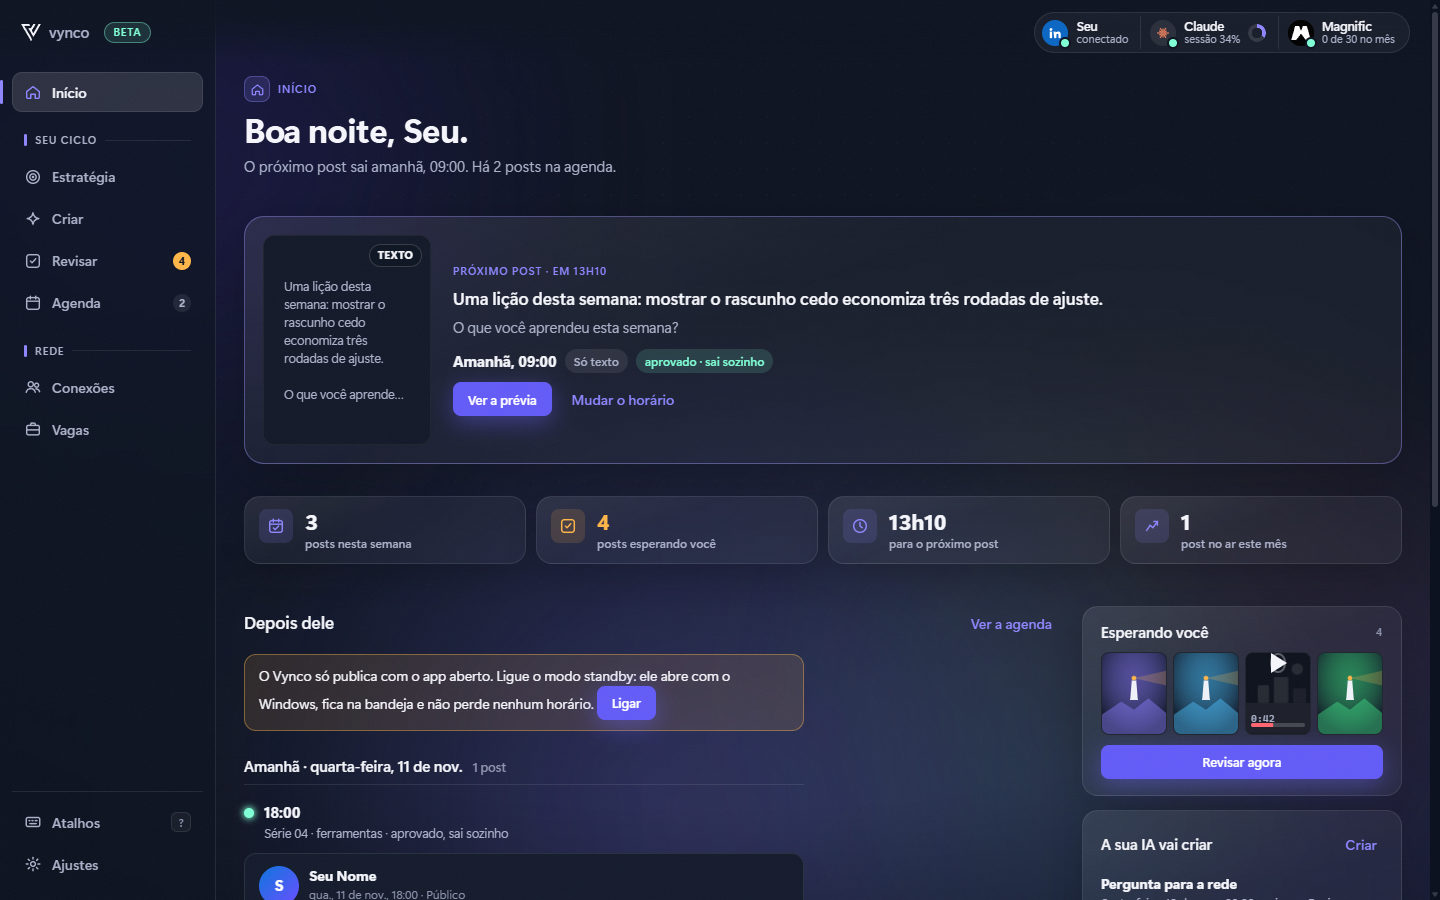
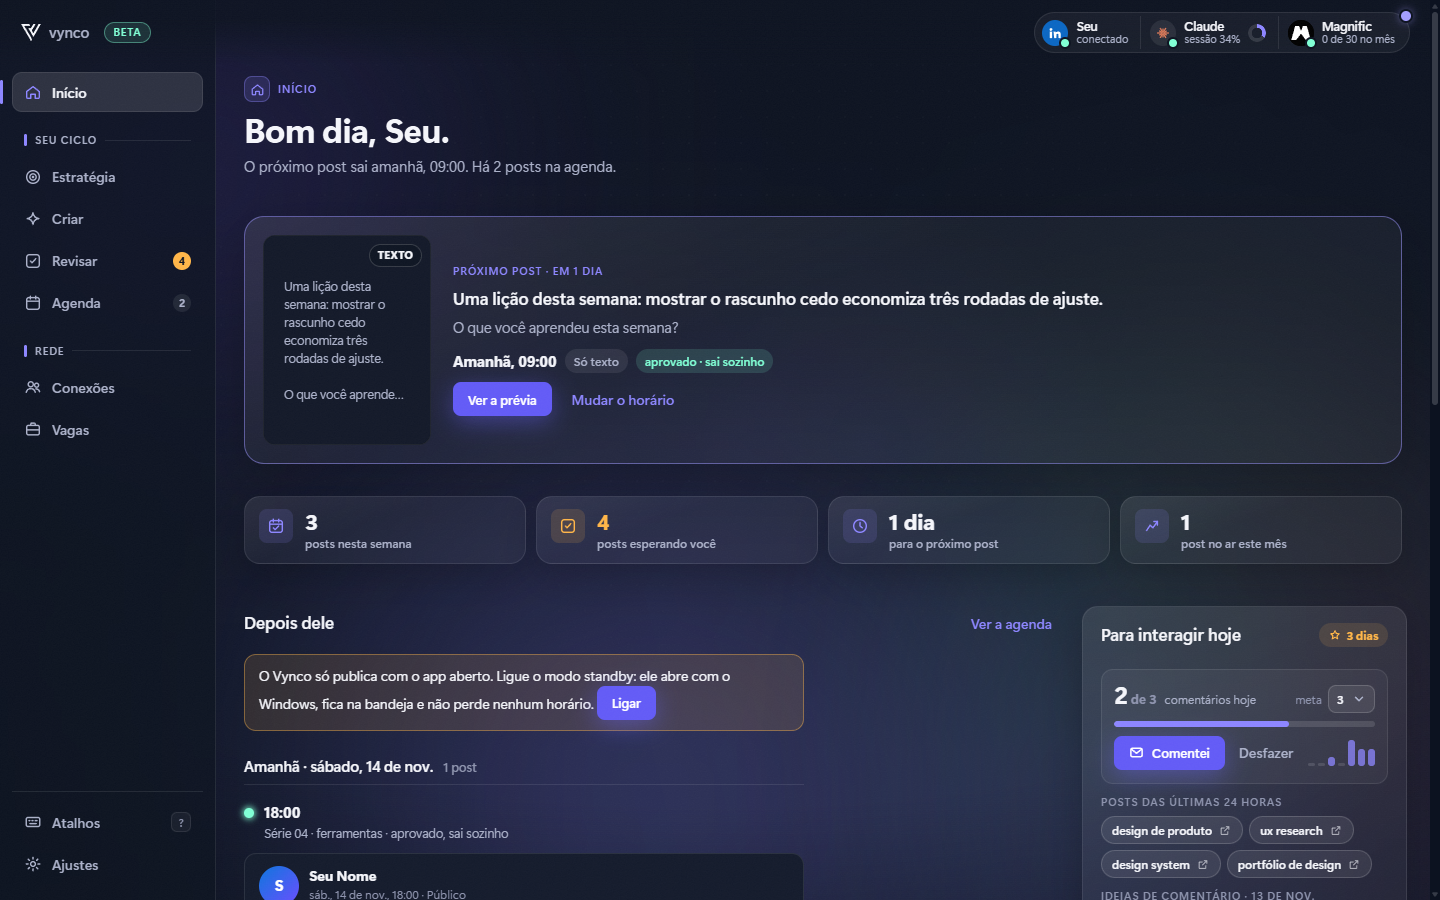
Vynco 0.18.1 beta: README, capturas e versão

diff --git a/README.md b/README.md
@@ -3,7 +3,7 @@
   <img src="app/public/marca/vynco-logo-lockup-escuro.svg" alt="Vynco" width="320">
 </picture>
 
-![Beta](https://img.shields.io/badge/status-beta%20test-7FFFD4?style=flat-square&labelColor=0C1220) ![Versão](https://img.shields.io/badge/vers%C3%A3o-0.18.0%20beta-6C63FF?style=flat-square&labelColor=0C1220) ![Windows](https://img.shields.io/badge/Windows-10%20e%2011-F4F5FA?style=flat-square&labelColor=0C1220)
+![Beta](https://img.shields.io/badge/status-beta%20test-7FFFD4?style=flat-square&labelColor=0C1220) ![Versão](https://img.shields.io/badge/vers%C3%A3o-0.18.1%20beta-6C63FF?style=flat-square&labelColor=0C1220) ![Windows](https://img.shields.io/badge/Windows-10%20e%2011-F4F5FA?style=flat-square&labelColor=0C1220)
 
 **Sua carreira em outro nível.** Seus posts no ar, do seu jeito. Nada sai sem você.
 
@@ -25,13 +25,26 @@ O Vynco é um motor de conteúdo para LinkedIn, para qualquer profissão:
 | **Criar e modo automático** | **Estratégia** |
 | ![Criar: modo automático com o plano da semana e a folga das IAs](docs/img/vynco-criar.png) | ![Estratégia em uma frase](docs/img/vynco-estrategia.png) |
 | **Conexões** | **Vagas** |
-| ![Conexões: tipos de pessoa, convite no seu tom e o que seguir](docs/img/vynco-rede.png) | ![Vagas com o link conferido e filtros por modalidade](docs/img/vynco-vagas.png) |
-| **Menu da conta** | **Ajustes** |
-| ![Menu da conta: uso das IAs, IA reserva e Magnific](docs/img/vynco-conta.png) | ![Ajustes: conexões, IA reserva e preferências](docs/img/vynco-ajustes.png) |
+| ![Conexões: tipos de pessoa com nota de 0 a 10, convite no seu tom e abas](docs/img/vynco-rede.png) | ![Vagas com nota de 0 a 10, link conferido e abas](docs/img/vynco-vagas.png) |
+| **Convites que você mandou** | **Menu da conta** |
+| ![Convites anotados, com filtros e a situação de cada um](docs/img/vynco-convites.png) | ![Menu da conta: uso das IAs, IA reserva e Magnific](docs/img/vynco-conta.png) |
 
 ![Vynco Design System 1.0](docs/img/design-system.png)
 
-<sub>Capturas da demonstração (versão 0.17), com dados de exemplo.</sub>
+<sub>Capturas da demonstração (versão 0.18), com dados de exemplo.</sub>
+
+## Novidades da 0.18.1
+Tudo dentro das regras do LinkedIn: o Vynco sugere, abre a busca normal do LinkedIn e ajuda a organizar. Ele não clica, não envia convites, não se candidata e não lê nem publica no feed.
+- **Para interagir hoje (Início).** Registro de comentários do dia ("Comentei"), meta diária, sequência de dias e a semana num mini gráfico. Buscas de posts das últimas 24 horas da sua área e ideias de comentário pela sua IA, com um começo no seu tom para você completar (sem inventar fatos, números ou falas).
+- **Conexões.**
+  - Cada sugestão ganha uma **nota de 0 a 10** pelo seu perfil (decide contratação, da sua área, é o seu público, abre vagas, fala dos seus temas), com os motivos, em ordem.
+  - **Buscas prontas** por tema: quem contrata, vagas ativas e colegas da área.
+  - **Convites que você mandou:** anote o convite, marque aceitou, sem resposta ou retirado, acompanhe a taxa de aceite e receba um lembrete para retirar convites parados há 3 semanas. Exporta em CSV.
+- **Vagas.**
+  - **Nota de 0 a 10** por vaga (da sua área, o seu nível, a sua modalidade, desta semana, link conferido, mostra o salário).
+  - **Buscas prontas de vagas** que abrem a busca do LinkedIn já com os filtros (modalidade, nível, última semana ou últimas 24 horas, só remotas).
+  - **Candidaturas que você mandou:** enviada, entrevista, proposta, recusada ou sem resposta, com lembrete de acompanhamento depois de 10 dias. Exporta em CSV.
+- **Visual da Rede.** Abas dentro de Conexões e de Vagas, nota em anel no canto do cartão, ações numa fileira e listas com filtros.
 
 ## Novidades da 0.18
 - **Atualizações dentro do app.** O Vynco procura sozinho uma versão nova (ao abrir e a cada 6 horas), mostra o que mudou e baixa e abre o instalador em **Ajustes → Atualizações**, sem passar pelo GitHub. Antes de abrir, confere o tamanho e a impressão digital (SHA-256) que o GitHub publica para o arquivo. Quem está na 0.17 ou antes instala esta versão uma vez pelo jeito antigo; daí em diante, as atualizações chegam pelo app.
